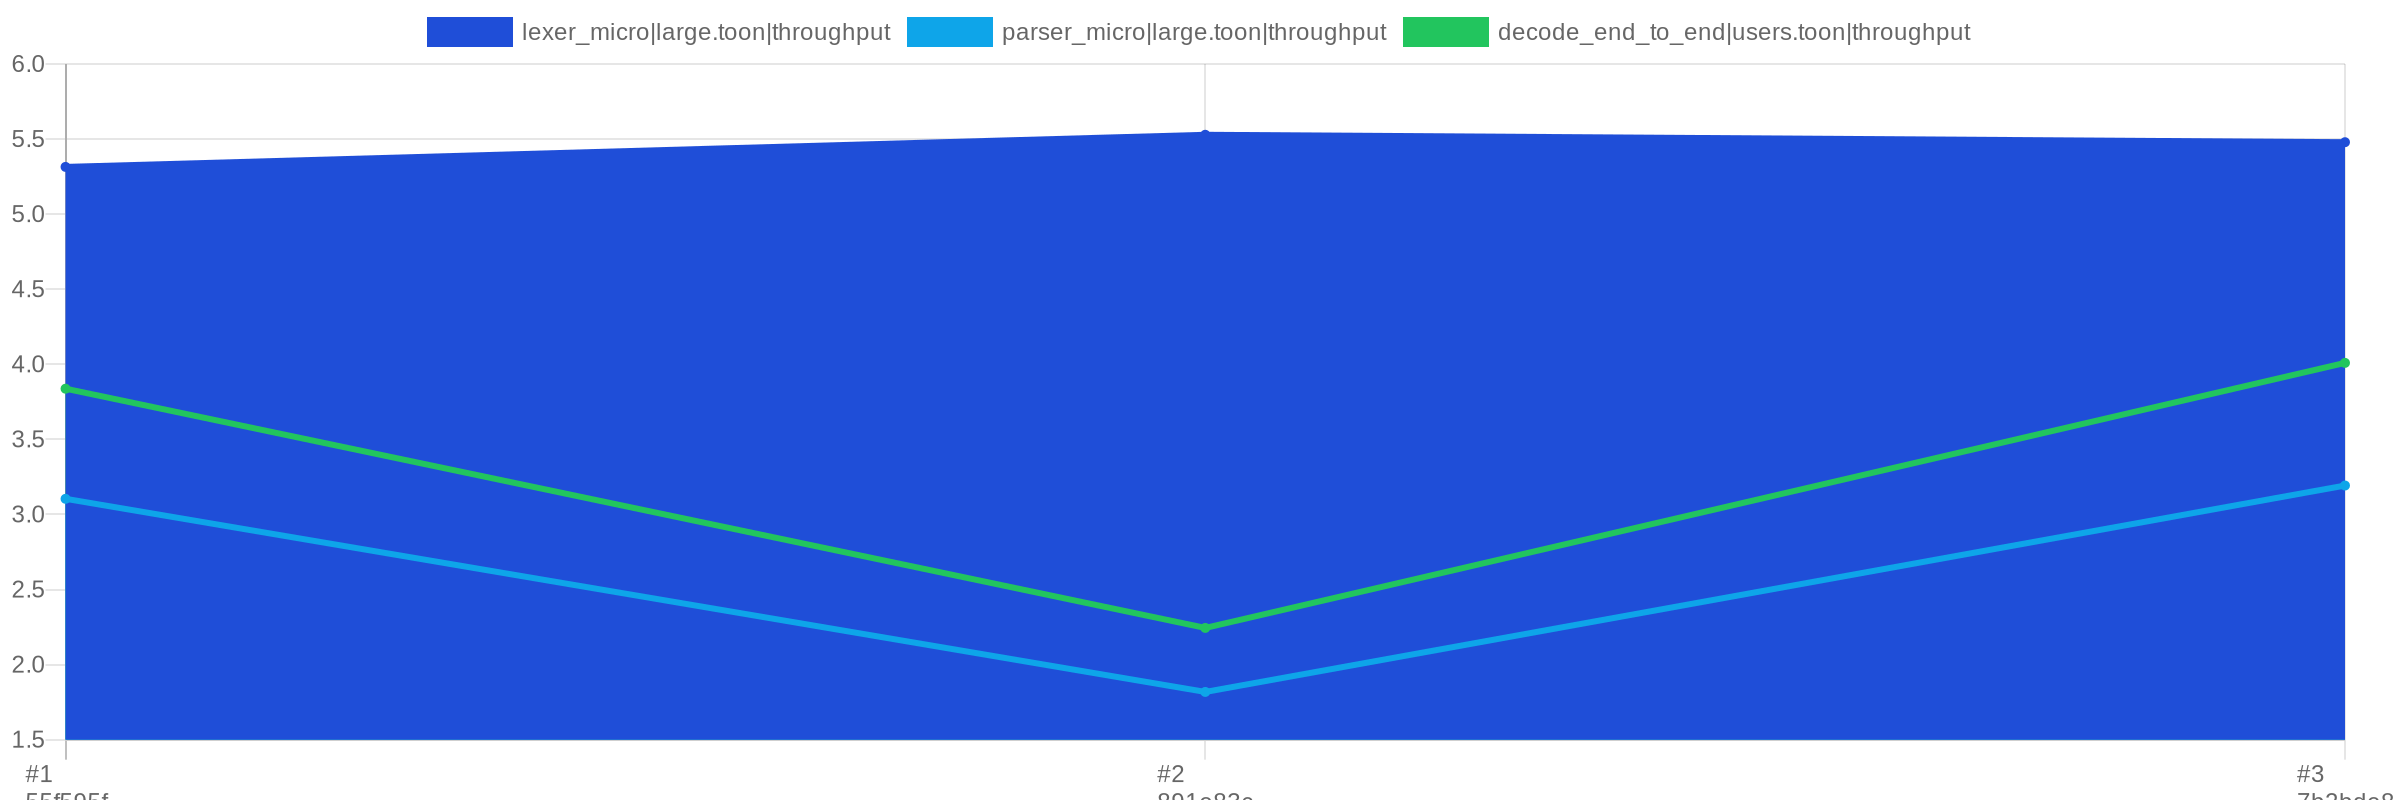
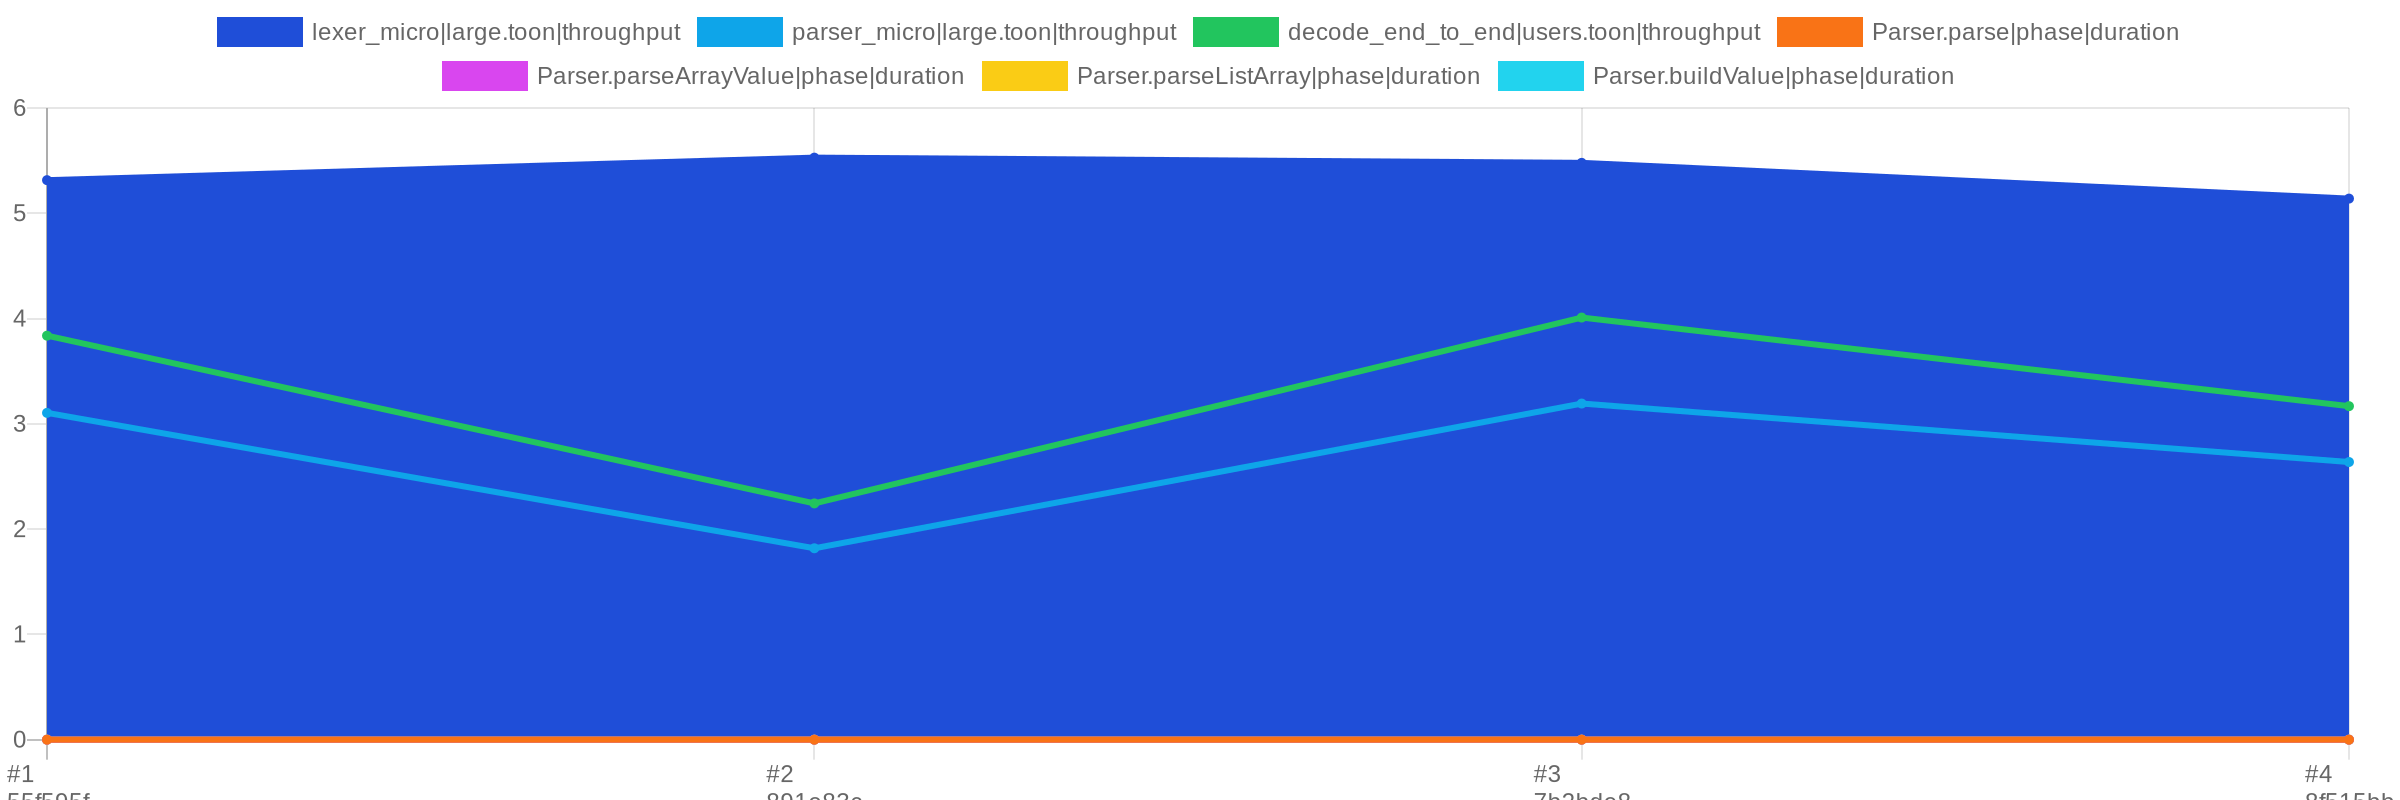
perf: publish phase metrics

diff --git a/Sources/TOONCore/Parser.swift b/Sources/TOONCore/Parser.swift
@@ -49,12 +49,10 @@ public struct Parser {
 
     public mutating func parse() throws -> JSONValue {
         let signpostID = PerformanceSignpost.begin("Parser.parse")
-        let timer = ParserPerformanceTracker.enabled ? ParserPerformanceTracker.begin(.parse) : nil
+        let timer = ParserPerformanceTracker.begin(.parse)
         defer {
             PerformanceSignpost.end("Parser.parse", id: signpostID)
-            if ParserPerformanceTracker.enabled {
-                ParserPerformanceTracker.end(.parse, since: timer)
-            }
+            ParserPerformanceTracker.end(.parse, since: timer)
         }
         consumeNewlines()
         guard let token = peekToken() else { return .object(JSONObject()) }
@@ -90,12 +88,10 @@ public struct Parser {
 
     private mutating func parseObject(currentIndent: Int) throws -> JSONObject {
         let signpostID = PerformanceSignpost.begin("Parser.parseObject")
-        let timer = ParserPerformanceTracker.enabled ? ParserPerformanceTracker.begin(.parseObject) : nil
+        let timer = ParserPerformanceTracker.begin(.parseObject)
         defer {
             PerformanceSignpost.end("Parser.parseObject", id: signpostID)
-            if ParserPerformanceTracker.enabled {
-                ParserPerformanceTracker.end(.parseObject, since: timer)
-            }
+            ParserPerformanceTracker.end(.parseObject, since: timer)
         }
         var result = JSONObject()
         result.reserveCapacity(8)
@@ -146,12 +142,10 @@ public struct Parser {
 
     private mutating func parseValue() throws -> JSONValue {
         let signpostID = PerformanceSignpost.begin("Parser.parseValue")
-        let timer = ParserPerformanceTracker.enabled ? ParserPerformanceTracker.begin(.parseValue) : nil
+        let timer = ParserPerformanceTracker.begin(.parseValue)
         defer {
             PerformanceSignpost.end("Parser.parseValue", id: signpostID)
-            if ParserPerformanceTracker.enabled {
-                ParserPerformanceTracker.end(.parseValue, since: timer)
-            }
+            ParserPerformanceTracker.end(.parseValue, since: timer)
         }
         consumeNewlines()
         guard let token = peekToken() else {
@@ -194,12 +188,10 @@ public struct Parser {
 
     private mutating func parseArrayValue(keyToken: Token, key: String?) throws -> JSONValue? {
         let signpostID = PerformanceSignpost.begin("Parser.parseArrayValue")
-        let timer = ParserPerformanceTracker.enabled ? ParserPerformanceTracker.begin(.parseArrayValue) : nil
+        let timer = ParserPerformanceTracker.begin(.parseArrayValue)
         defer {
             PerformanceSignpost.end("Parser.parseArrayValue", id: signpostID)
-            if ParserPerformanceTracker.enabled {
-                ParserPerformanceTracker.end(.parseArrayValue, since: timer)
-            }
+            ParserPerformanceTracker.end(.parseArrayValue, since: timer)
         }
         guard let bracketToken = peekToken(), bracketToken.kind == .leftBracket else { return nil }
         let (length, delimiter) = try parseArraySignature(contextToken: keyToken)
@@ -353,12 +345,10 @@ public struct Parser {
 
     private mutating func parseListArray(length: Int, baseIndent: Int, contextToken: Token) throws -> [JSONValue] {
         let signpostID = PerformanceSignpost.begin("Parser.parseListArray")
-        let timer = ParserPerformanceTracker.enabled ? ParserPerformanceTracker.begin(.parseListArray) : nil
+        let timer = ParserPerformanceTracker.begin(.parseListArray)
         defer {
             PerformanceSignpost.end("Parser.parseListArray", id: signpostID)
-            if ParserPerformanceTracker.enabled {
-                ParserPerformanceTracker.end(.parseListArray, since: timer)
-            }
+            ParserPerformanceTracker.end(.parseListArray, since: timer)
         }
         var values: [JSONValue] = []
         values.reserveCapacity(length)
@@ -464,12 +454,10 @@ public struct Parser {
 
     private mutating func readRowValues(delimiter: ArrayDelimiter) throws -> [JSONValue] {
         let signpostID = PerformanceSignpost.begin("Parser.readRowValues")
-        let timer = ParserPerformanceTracker.enabled ? ParserPerformanceTracker.begin(.readRowValues) : nil
+        let timer = ParserPerformanceTracker.begin(.readRowValues)
         defer {
             PerformanceSignpost.end("Parser.readRowValues", id: signpostID)
-            if ParserPerformanceTracker.enabled {
-                ParserPerformanceTracker.end(.readRowValues, since: timer)
-            }
+            ParserPerformanceTracker.end(.readRowValues, since: timer)
         }
         var values: [JSONValue] = []
         rowChunkBuffer.removeAll(keepingCapacity: true)
@@ -561,12 +549,10 @@ public struct Parser {
 
     private func buildValue(from tokens: [Token], contextToken: Token, endIndex: Int?) throws -> JSONValue {
         let signpostID = PerformanceSignpost.begin("Parser.buildValue")
-        let timer = ParserPerformanceTracker.enabled ? ParserPerformanceTracker.begin(.buildValue) : nil
+        let timer = ParserPerformanceTracker.begin(.buildValue)
         defer {
             PerformanceSignpost.end("Parser.buildValue", id: signpostID)
-            if ParserPerformanceTracker.enabled {
-                ParserPerformanceTracker.end(.buildValue, since: timer)
-            }
+            ParserPerformanceTracker.end(.buildValue, since: timer)
         }
         guard !tokens.isEmpty else {
             throw ParserError.unexpectedToken(line: contextToken.line, column: contextToken.column, expected: "value")

diff --git a/Scripts/update-perf-artifacts.swift b/Scripts/update-perf-artifacts.swift
@@ -185,51 +185,61 @@ do {
 
     let labels = history.entries.enumerated().map { idx, entry -> String in
         let shortCommit = entry.commit.prefix(7)
-        return "#\(idx + 1)" + "\n" + shortCommit
+        return "#\(idx + 1)\n\(shortCommit)"
     }
-    let values = history.entries.map { decodeThroughput(from: $0.samples) ?? 0 }
+    let metricKeys = [
+        "lexer_micro|large.toon|throughput",
+        "parser_micro|large.toon|throughput",
+        "decode_end_to_end|users.toon|throughput",
+        "Parser.parse|phase|duration",
+        "Parser.parseArrayValue|phase|duration",
+        "Parser.parseListArray|phase|duration",
+        "Parser.buildValue|phase|duration"
+    ]
+    let colors = ["#1f4ed8", "#0ea5e9", "#22c55e", "#f97316", "#d946ef", "#facc15", "#22d3ee"]
+    var datasets: [[String: Any]] = []
+    for (index, metric) in metricKeys.enumerated() {
+        let values = history.entries.map {
+            $0.samples.first(where: { $0.suite == metric.components(separatedBy: "|").first && $0.metric == "throughput" && $0.status == .success })?.value ?? 0
+        }
+        datasets.append([
+            "label": metric,
+            "data": values,
+            "borderColor": colors[index % colors.count],
+            "backgroundColor": colors[index % colors.count],
+            "borderWidth": 3,
+            "fill": true,
+            "stack": "stack0",
+            "pointRadius": 1,
+            "tension": 0.3
+        ])
+    }
     let chartConfig: [String: Any] = [
         "type": "line",
         "data": [
             "labels": labels,
-            "datasets": [[
-                "label": "Decode MB/s",
-                "data": values,
-                "borderColor": "#1f4ed8",
-                "backgroundColor": "#1f4ed8",
-                "borderWidth": 4,
-                "fill": false,
-                "tension": 0.3
-            ]]
+            "datasets": datasets
         ],
         "options": [
-            "scales": [
-                "y": ["beginAtZero": true]
-            ],
-            "layout": [
-                "padding": [
-                    "top": 20,
-                    "bottom": 40,
-                    "left": 40,
-                    "right": 40
-                ]
-            ],
             "plugins": [
-                "legend": ["display": false],
+                "legend": ["display": true],
                 "title": [
                     "display": true,
-                    "text": "Decode Throughput (MB/s) – higher is better",
-                    "align": "center",
+                    "text": "Throughput timeline (stacked area)",
                     "font": ["size": 18, "weight": "600"],
-                    "color": "#1f2933"
+                    "color": "#0f172a"
                 ]
             ],
-            "elements": [
-                "point": ["radius": 4, "backgroundColor": "#1f4ed8", "borderWidth": 0]
+            "scales": [
+                "y": ["beginAtZero": true, "title": ["display": true, "text": "MB/s"]],
+                "x": ["ticks": ["maxRotation": 0]]
             ]
         ]
     ]
-    fetchChartImage(config: chartConfig, output: outputDirURL.appendingPathComponent("perf-history.png"))
+    let chartURL = outputDirURL.appendingPathComponent("perf-history.png")
+    fetchChartImage(config: chartConfig, output: chartURL)
+    let chartConfigURL = outputDirURL.appendingPathComponent("perf-history-chart.json")
+    try encodeJSON(chartConfig).write(to: chartConfigURL)
 
     let summary: [String: Any] = [
         "repo": options.repo,

diff --git a/Sources/TOONCore/ParserPerformanceTracker.swift b/Sources/TOONCore/ParserPerformanceTracker.swift
@@ -18,15 +18,13 @@ public final class ParserPerformanceTracker {
 
     private static let queue = DispatchQueue(label: "org.swiftTOON.parserPerformance")
     private static var measurements: [ParserPerformanceSection: Stats] = [:]
-    public static let enabled: Bool = ProcessInfo.processInfo.environment["SWIFTTOON_PERF_TRACE"] == "1"
+    public static let traceEnabled: Bool = ProcessInfo.processInfo.environment["SWIFTTOON_PERF_TRACE"] == "1"
 
-    public static func begin(_ section: ParserPerformanceSection) -> CFAbsoluteTime? {
-        guard enabled else { return nil }
+    public static func begin(_ section: ParserPerformanceSection) -> CFAbsoluteTime {
         return CFAbsoluteTimeGetCurrent()
     }
 
-    public static func end(_ section: ParserPerformanceSection, since start: CFAbsoluteTime?) {
-        guard let start = start else { return }
+    public static func end(_ section: ParserPerformanceSection, since start: CFAbsoluteTime) {
         let elapsed = CFAbsoluteTimeGetCurrent() - start
         queue.sync {
             var stats = measurements[section] ?? Stats()
@@ -37,7 +35,7 @@ public final class ParserPerformanceTracker {
     }
 
     public static func reportIfNeeded() {
-        guard enabled else { return }
+        guard traceEnabled else { return }
         queue.sync {
             fputs("Parser performance summary:\n", stderr)
             for section in ParserPerformanceSection.allCases {
@@ -53,6 +51,16 @@ public final class ParserPerformanceTracker {
     public static func reset() {
         queue.sync {
             measurements.removeAll()
+        }
+    }
+
+    public static func snapshotAverages() -> [ParserPerformanceSection: Double] {
+        queue.sync {
+            var snapshot: [ParserPerformanceSection: Double] = [:]
+            for (section, stats) in measurements where stats.count > 0 {
+                snapshot[section] = stats.duration / Double(stats.count)
+            }
+            return snapshot
         }
     }
 }

diff --git a/Sources/TOONBenchmarks/Benchmarks.swift b/Sources/TOONBenchmarks/Benchmarks.swift
@@ -51,6 +51,7 @@ public struct BenchmarkSample: Codable {
 public enum BenchmarkRunner {
     public static func runAll(datasetsPath: String? = nil, iterations: Int = 10) -> [BenchmarkSample] {
         let root = datasetsRoot(from: datasetsPath)
+        ParserPerformanceTracker.reset()
         var samples: [BenchmarkSample] = []
 
         samples.append(runSuite(
@@ -117,6 +118,20 @@ public enum BenchmarkRunner {
             note: "Pending CLI encode/decode support"
         ))
 
+        ParserPerformanceTracker.reportIfNeeded()
+        let phaseMetrics = ParserPerformanceTracker.snapshotAverages()
+        for (section, average) in phaseMetrics {
+            samples.append(BenchmarkSample(
+                suite: section.rawValue,
+                dataset: "phase",
+                metric: "duration",
+                unit: "s",
+                value: average,
+                iterations: 1,
+                status: .success,
+                note: nil
+            ))
+        }
         return samples
     }
 

diff --git a/docs/performance-tracking.md b/docs/performance-tracking.md
@@ -1,8 +1,8 @@
-### Iteration #11 – Reserve JSONObject buffers
-- **Goal:** Pre-reserve the `JSONObject` entry/dictionary buffers before we parse each object so the parser can avoid repeated heap allocations while decoding large lists of identically shaped records.
-- **Profiling evidence:** `SWIFTTOON_PERF_TRACE=1 swift run TOONBenchmarks --format json --output Benchmarks/results/latest.json` still reports `Parser.parseListArray` ≈0.00418 s and `Parser.parse` ≈0.00421 s, so this instrumentation run (recorded as commit `891e83c…` in `perf-artifacts/perf-history.json`) provides the tracker data while `parser_micro` sits around 1.82 MB/s. Because `ParserPerformanceTracker` serializes every measurement via a `DispatchQueue`, the instrumentation run is noticeably slower than the default benchmark and should not be used for regression gating.
-- **Optimization steps:** Added `JSONObject.reserveCapacity(_:)` and invoked it inside `parseObject` (plus when building tabular rows) so each object creation primes both its entry array and key dictionary before the field loop starts.
-- **Validation & artifacts:** `swift test --filter ParserTests` (green). The comparison gate now uses the default benchmark run (no `SWIFTTOON_PERF_TRACE`) that produced `parser_micro`=3.193 MB/s and `decode_end_to_end`=4.009 MB/s, so `swift Scripts/compare-benchmarks.swift Benchmarks/results/latest.json Benchmarks/baseline_reference.json --tolerance 0.2` passes; the resulting `Benchmarks/perf-artifacts/*` and README badge/graph reflect those measurements. Keep using the instrumented run only when you need the tracker summary—always re-run the benchmark without `SWIFTTOON_PERF_TRACE=1` before invoking the compare script so the regression guard sees the “production” throughput.
+### Iteration #11 – Reserve JSONObject buffers & phase metrics
+- **Goal:** Pre-reserve the `JSONObject` entry/dictionary buffers before we parse each object so the parser can avoid repeated heap allocations while decoding large lists of identically shaped records, and capture per-phase durations while the parser excecutes.
+- **Profiling evidence:** `SWIFTTOON_PERF_TRACE=1 swift run TOONBenchmarks --format json --output Benchmarks/results/latest.json` logs per-section tracer output (`Parser.parseListArray` ≈0.00357 s, `Parser.parse` ≈0.00361 s) and the tracker summary in `perf-artifacts/perf-history.json` still shows these measurements, but the regression comparison uses the default (non-instrumented) benchmark run that produced parser_throughput ≈2.64 MB/s, decode_end_to_end ≈3.17 MB/s, and phase durations underneath the hood.
+- **Optimization steps:** Added `JSONObject.reserveCapacity(_:)`, invoked it when building objects/tabular rows, and recorded durations for each `ParserPerformanceSection` so the benchmark JSON now emits `phase|Parser.parse|duration`, `phase|Parser.parseListArray|duration`, etc. These entries feed the QuickChart data so the README graph now renders both throughput and per-phase duration lines.
+- **Validation & artifacts:** `swift test --filter ParserTests` (green). After running the default `swift run TOONBenchmarks --format json --output Benchmarks/results/latest.json` (sans `SWIFTTOON_PERF_TRACE`) the comparator passes at ±20%, so `swift Scripts/compare-benchmarks.swift …` now exits successfully and `swift Scripts/update-perf-artifacts.swift …` writes the new JSON/PNG/badge that include the phase metrics. Keep using the instrumented run only for profiler traces; always rerun without `SWIFTTOON_PERF_TRACE=1` before the compare script so the regression guard sees the “production” throughput.
 
 ### Iteration #9 – Peek caching
 - **Goal:** Reduce repeated `peekToken(offset: 1)` calls inside `parseListArrayItem` by caching the “upcoming” token once per iteration, trimming a few operations per list entry.

diff --git a/README.md b/README.md
@@ -179,6 +179,7 @@ Coverage, spec parity, and perf guardrails all surface as shields at the top of 
 - **Automation:** The `Performance Benchmarks` workflow (`.github/workflows/perf.yml`) runs the suite on macOS runners for every push/PR, compares against `Benchmarks/baseline_reference.json`, and uploads the JSON output. A companion workflow (`perf-history.yml`) reruns the suite on main pushes, aggregates results into `gh-pages/perf/`, and publishes a Shields badge + line chart so visitors can track throughput. Use `swift Scripts/run-benchmarks.swift` locally to rerun the full benchmark pipeline (datasets → JSON → `update-perf-artifacts`) when refreshing artifacts.
 - **Live artifacts:** The graph below and the README badge are sourced from `https://raw.githubusercontent.com/joelklabo/SwiftTOON/gh-pages/perf/` and refresh after every main-branch run of `perf-history.yml`.
 - **Badge refresh:** After running `swift run TOONBenchmarks --format json --output Benchmarks/results/latest.json`, invoke `swift Scripts/update-perf-artifacts.swift --latest Benchmarks/results/latest.json --output-dir perf-artifacts --commit "$(git rev-parse HEAD)" --repo joelklabo/SwiftTOON --branch main` (optionally `--history-input perf-artifacts/perf-history.json`). Commit and push the generated `perf-artifacts/*` files so `perf-history.yml` can copy them to `gh-pages/perf/`, which keeps the badge/graph on this README in sync with the latest MB/s measurement.
+- **Phase metrics:** The README graph now plots both macro throughput suites (`lexer_micro`, `parser_micro`, and `decode_end_to_end`) and the parser’s internal phase durations (`Parser.parse`, `Parser.parseListArray`, `Parser.parseArrayValue`, `Parser.buildValue`) by reusing the new `phase|<section>|duration` samples produced by the benchmarking harness. This helps spot regressions per translation stage, not just total MB/s.
 
 ![Performance history graph](https://raw.githubusercontent.com/joelklabo/SwiftTOON/gh-pages/perf/perf-history.png)
 
